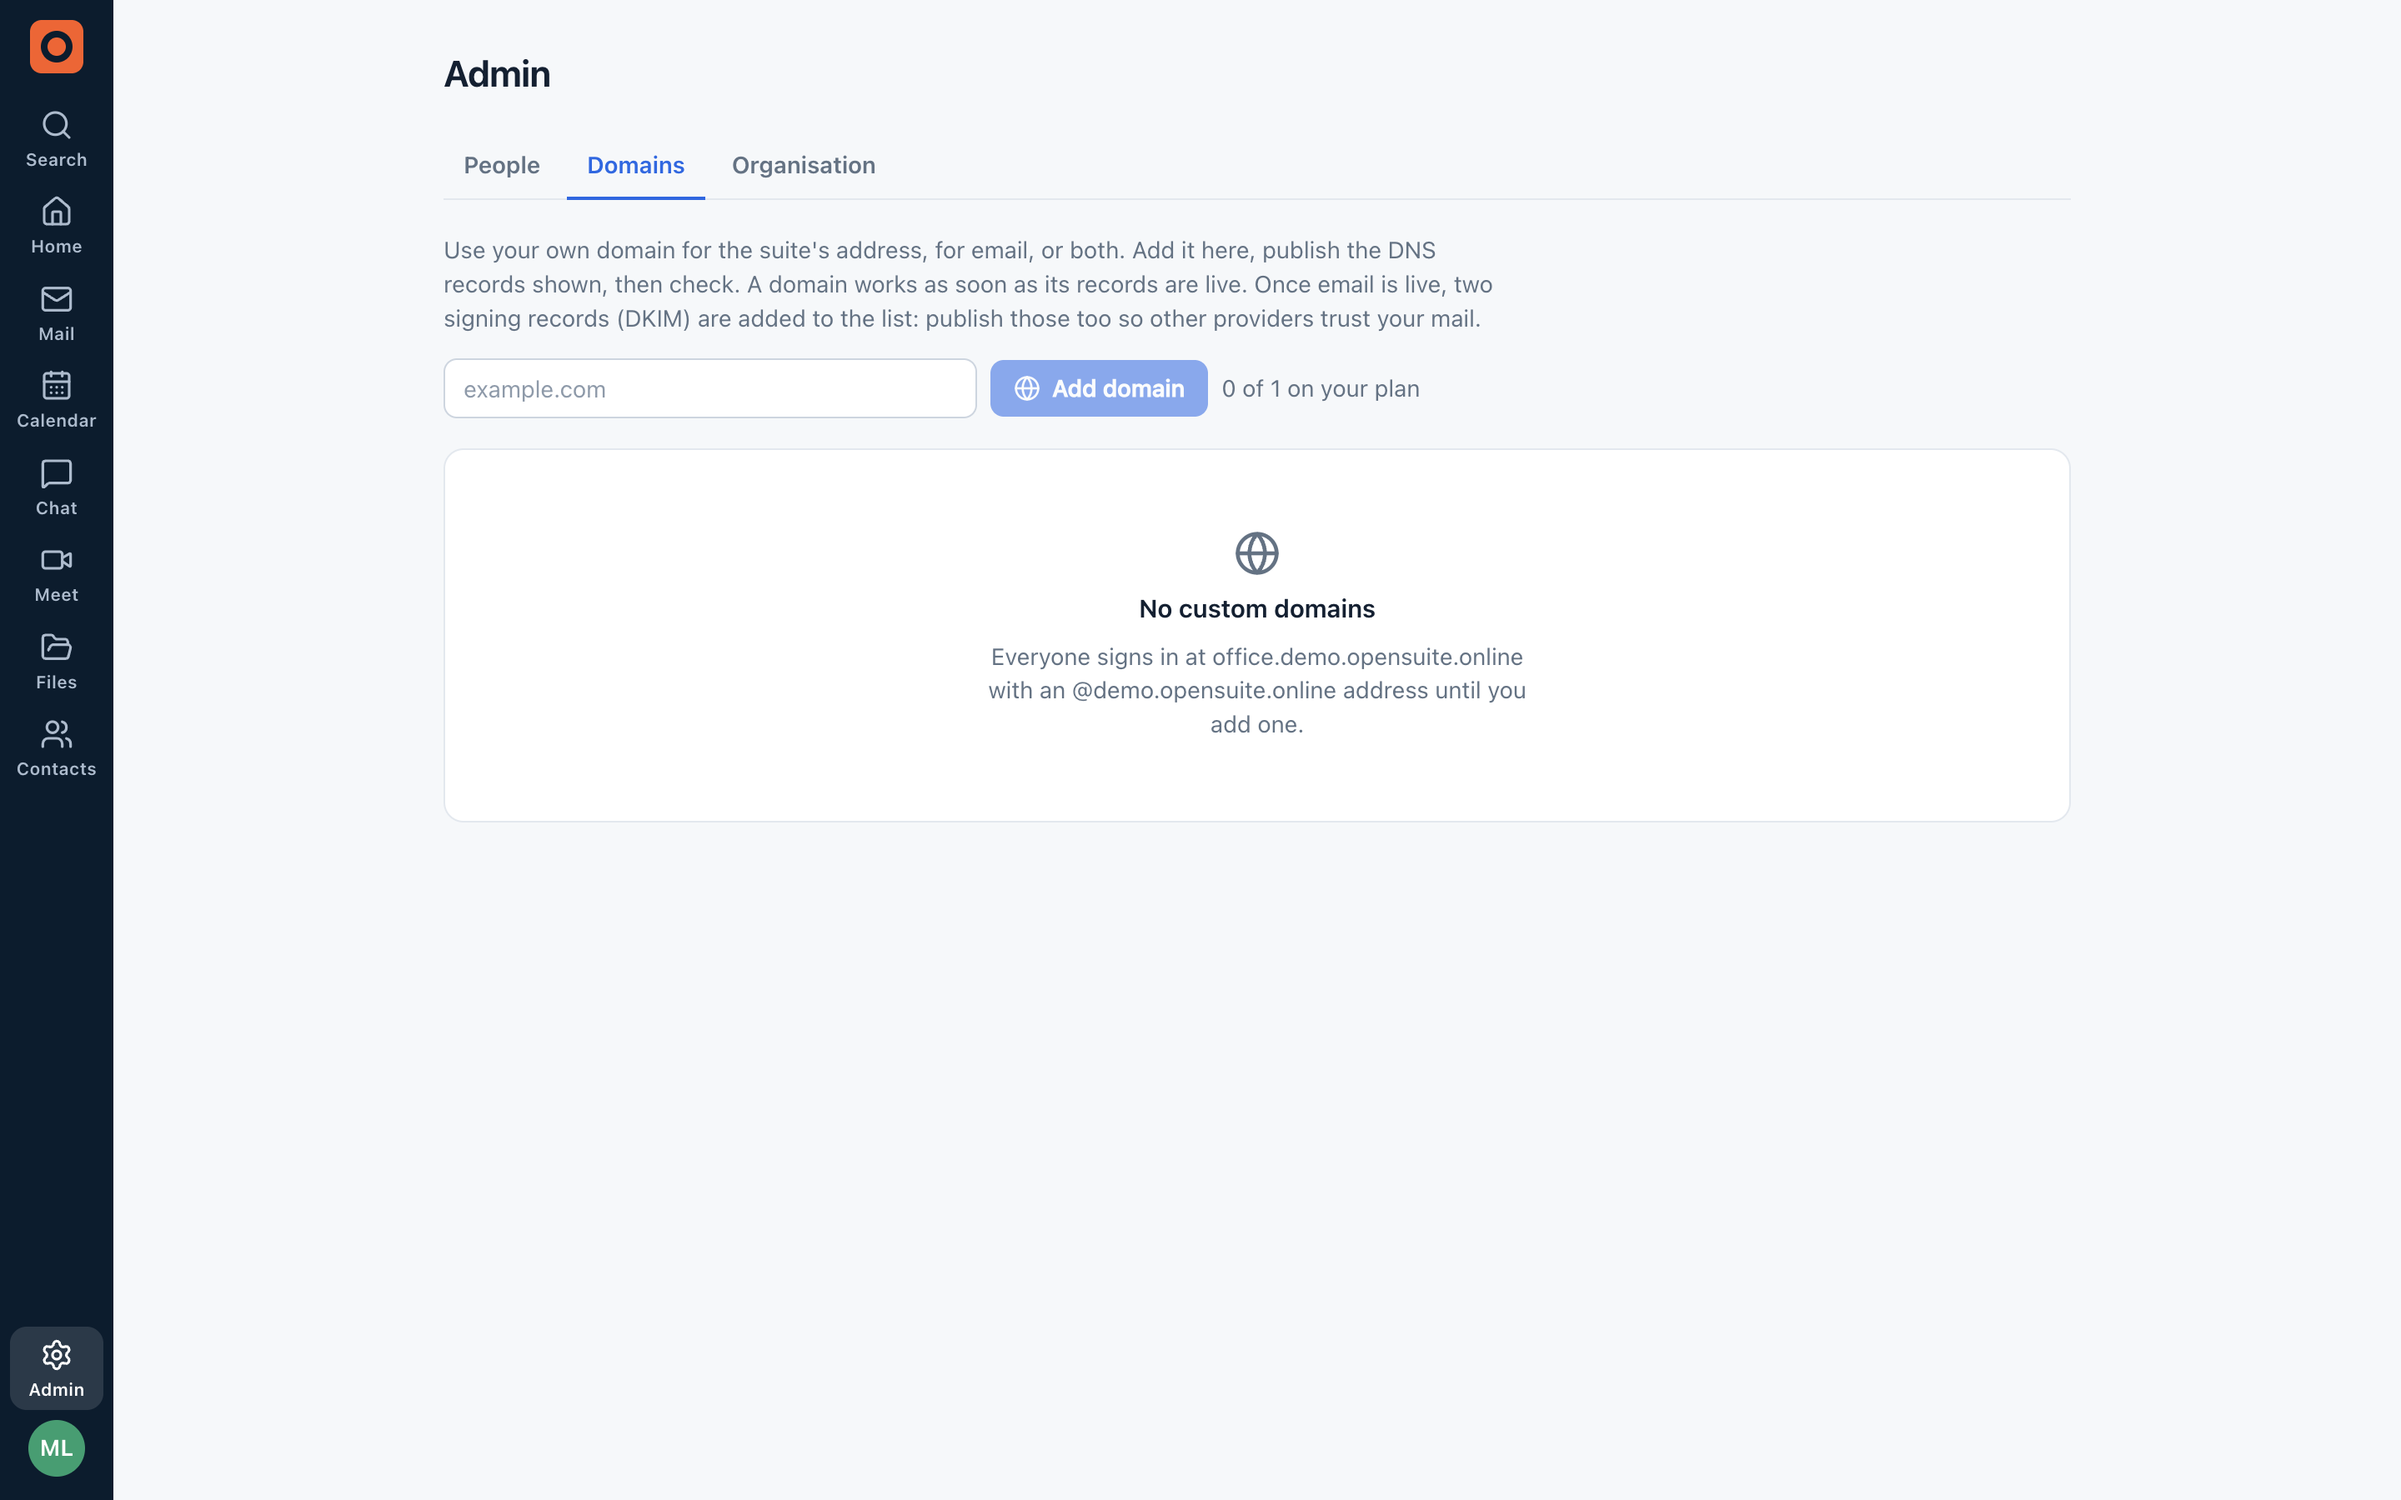
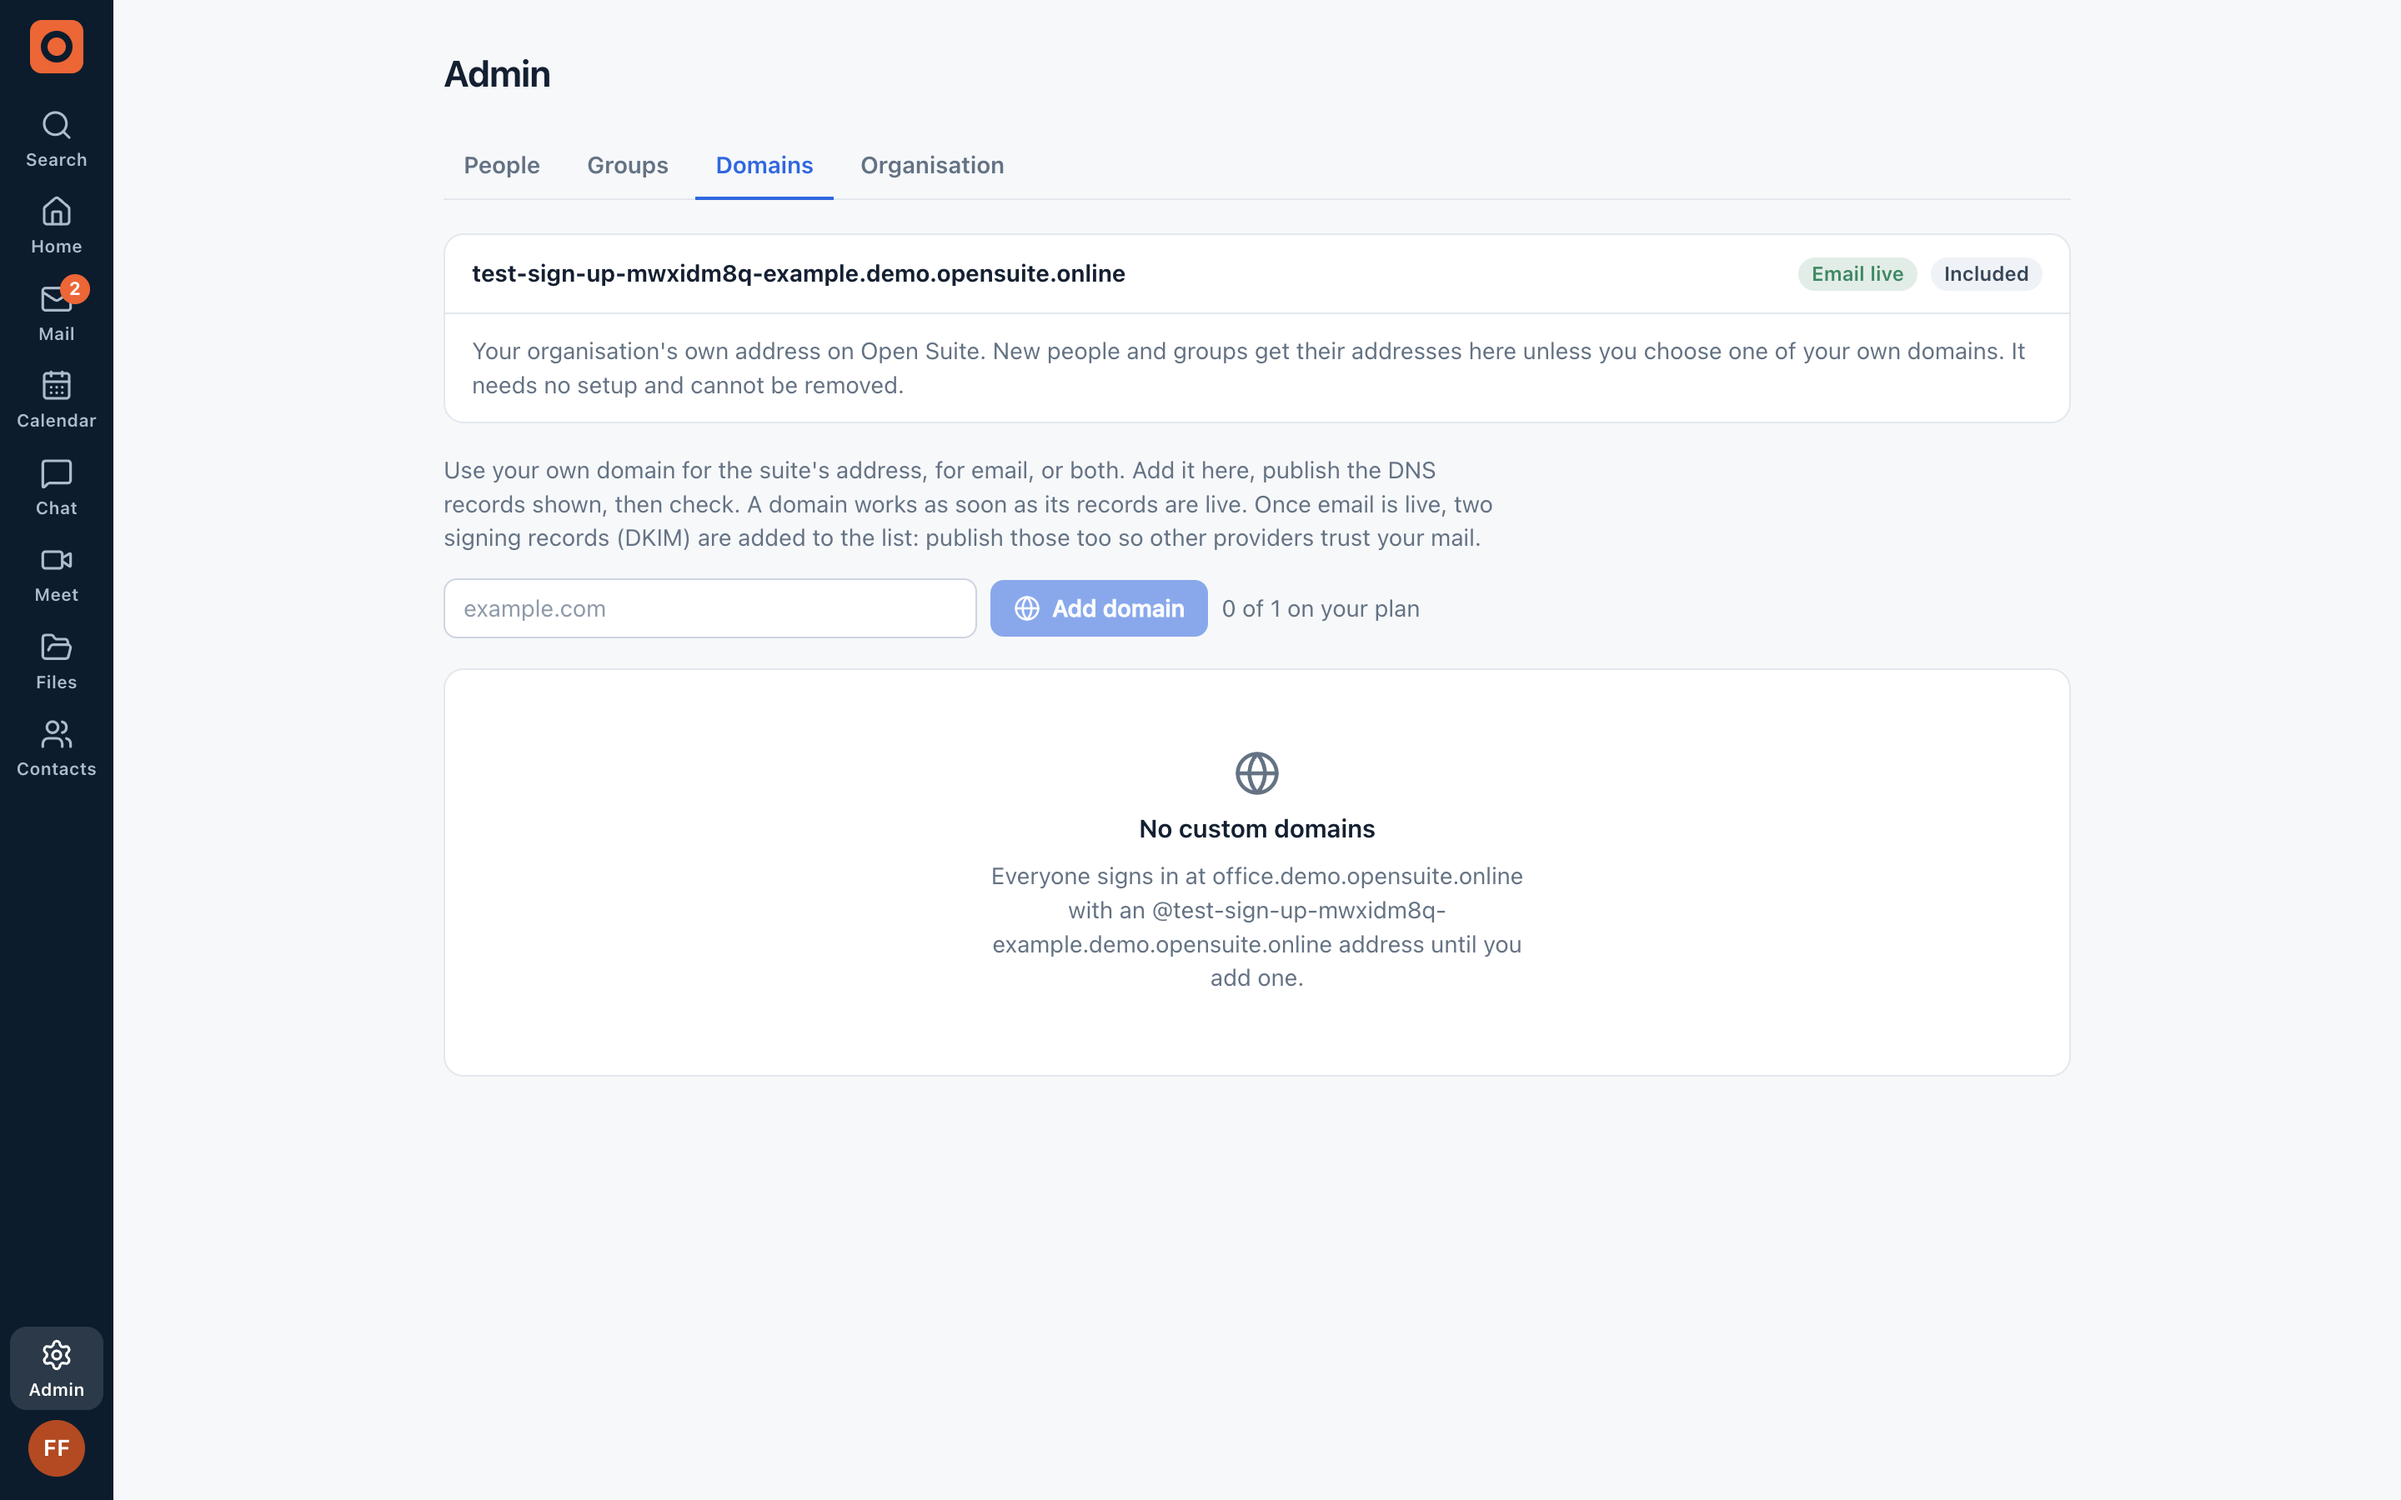
Document organisation addresses, example data and profile pictures (#10)

diff --git a/users/intro.md b/users/intro.md
@@ -46,18 +46,33 @@ If the installation allows sign-up, the sign-in page shows
 yourself as its owner:
 
 1. Click **Create an organisation**.
-2. Enter the **Organisation** name, **Your name** and **Your address** (the
-   part before `@`). Open Suite tells you whether the address is available.
-3. Choose a **Password** of at least 10 characters.
-4. If the form asks for an **Invitation code**, enter the code the people who
+2. Enter the **Organisation** name. Open Suite suggests **Your organisation's
+   address** from it, such as `acme` for `acme.opensuite.online`, and tells
+   you whether it is free; change it if you like. Everyone you add gets an
+   email address there.
+3. Enter **Your name** and **Your address** (the part before `@`), such as
+   `jane` for `jane@acme.opensuite.online`. This is your sign-in and your
+   email address.
+4. Choose a **Password** of at least 10 characters.
+5. If the form asks for an **Invitation code**, enter the code the people who
    run the installation gave you.
-5. Click **Create organisation**.
+6. Under **Start with**, choose:
+   - **Example data** to explore the suite with something in it: two example
+     colleagues with documents, files, mail, a shared Sales inbox, calendar
+     events and a chat, all around a product launch. You can remove it in one
+     step later (see [Plan and limits](/admins/plan-and-limits#remove-the-example-data)).
+   - **An empty organisation** to start with just yourself.
+7. Click **Create organisation**.
 
 ![The Create your organisation form](/img/users/sign-up.png)
 
 You go straight to Home. As the owner, you can add colleagues from
 [Admin](/admins). If the page says **Sign-up is closed**, ask the people who
 run the installation for an account.
+
+Some installations do not give each organisation its own address. Their form
+has no organisation address and no **Start with** choice, and your address is
+on the installation's own domain.
 
 ## What is where
 

diff --git a/admins/plan-and-limits.md b/admins/plan-and-limits.md
@@ -51,6 +51,29 @@ plan allows, adding another fails with a message naming the limit. Removing a
 person or deleting a group frees its place. Groups do not count as people. [Agents](./agents.md) count as people, because
 each has its own mailbox and storage.
 
+The example colleagues and the example Sales group of an organisation that
+started with example data do not count: they cannot sign in, and they are
+there only until you remove them. The organisation's own address on Open
+Suite (see [Custom domains](./custom-domains.md)) does not count as a custom
+domain.
+
+## Remove the example data
+
+If you chose **Example data** when you created the organisation, the
+**Organisation** tab has an **Example data** card. Click **Remove example
+data**, then **Remove**. This deletes:
+
+- the example colleagues, Ada Lovelace and Grace Hopper, with their mailboxes;
+- the Sales group and all of its mail;
+- the example documents, files, folders and meeting rooms;
+- the example mail, events, contacts and chat conversation in your own
+  accounts.
+
+What you and your colleagues made stays, including documents and files you
+put in an example folder: they move to the top level of **Files**. Anything
+an example colleague owned that was not part of the example becomes yours.
+The card then disappears.
+
 ## Change the plan
 
 There is no upgrade button in the app. The platform operators of your

diff --git a/it/install.md b/it/install.md
@@ -112,6 +112,7 @@ run `deploy.sh`:
 | `OS_SIGNUP_CODE` | any text | empty | The invitation code when `OS_SIGNUP=code`. |
 | `OS_OPERATORS` | comma-separated sign-in addresses | empty | Platform operators. They see an extra **All organisations** tab in Admin, listing every organisation, and can switch an organisation between the Free and Team plans. |
 | `OS_MAIL_RELAY` | `host:port:user:password` or `file:/path` | empty | Send outgoing mail through a smarthost instead of delivering directly. Port 465 uses implicit TLS; other ports use STARTTLS. `file:/path` reads the value from a file on the server, so the password never appears on your command line. |
+| `OS_ORG_DOMAIN_SUFFIX` | a domain, e.g. `opensuite.example` | empty | Give every new organisation its own mail domain, `<name>.opensuite.example`, chosen at sign-up, and offer to start it with example data. Publish a wildcard MX record, `*.opensuite.example` to the server's mail host, so mail for every such domain reaches the server. Empty: organisations use the installation's mail domain and sign-up offers no example data. |
 
 For example:
 

diff --git a/admins/custom-domains.md b/admins/custom-domains.md
@@ -4,8 +4,16 @@ title: Custom domains
 ---
 # Use your own domain
 
-By default your organisation uses the installation's web address and mail
-domain. Under **Admin** > **Domains** you can add a domain you own, for the
+By default your organisation uses the installation's web address, and email
+addresses on its own address on Open Suite, such as `acme.opensuite.online`,
+chosen when it was created. **Admin** > **Domains** shows that address first,
+marked **Included**: it needs no setup, does not count as a custom domain and
+cannot be removed. New people and groups get their addresses there unless you
+choose another domain. Organisations created before the installation gave
+organisations their own address, and installations that do not, use the
+installation's shared mail domain instead.
+
+Under **Admin** > **Domains** you can also add a domain you own, for the
 suite's web address, for email addresses, or both. The Free plan includes one
 custom domain, the Team plan ten.
 

diff --git a/users/account.md b/users/account.md
@@ -13,6 +13,15 @@ The page shows your name, address and organisation.
 
 ![The Your account page](/img/users/account.png)
 
+## Add a picture
+
+Under **Profile**, click **Add a picture** and choose a photo. Open Suite
+crops it to a square from the middle and makes it small before saving it.
+Your colleagues see it wherever your initials were: in Mail, Chat, documents,
+calendar invitations and Contacts. **Change picture** replaces it and
+**Remove** goes back to your initials. People outside your organisation never
+see it.
+
 ## Change your name
 
 Edit **Name** under **Profile** and click **Save**. Colleagues see the new
